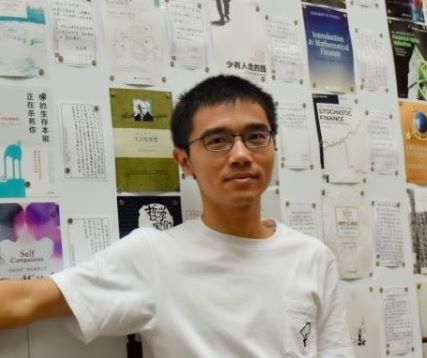
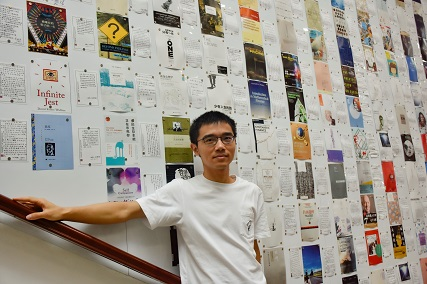
Edit

diff --git a/index.html b/index.html
@@ -6,8 +6,8 @@
 
 <head>
 
-	<title>Grad Student X's Webpage</title>
-	
+	<title>Ruijun Lin's Webpage</title>
+
 	<link rel="stylesheet" href="grad.css" type="text/css" media="all" />
 
 </head>
@@ -16,25 +16,25 @@
 <!--div id="wrapper" -->
 <br />
 <div id="masthead">
-	
+
 	<div id="bannerphoto">
-		<img src="GraecoLatin.jpg">
+		<img src="Myself.jpg">
 	</div>
 
 	<div id="bannertext">
-		<a href="." style="font-size:200%;color:#ffffff">Grad Student X</a><br />
-		dartmouth college mathematics<br />
-		6188 kemeny hall<br /><br />
-		X(at)math(dot)dartmouth(dot)edu
+		<a href="." style="font-size:200%;color:#ffffff">Ruijun Lin</a><br />
+		SUSTech, Mathematics<br />
+		1088 Xueyuan Rd, Shenzhen<br /><br />
+		11611302@mail.sustech.edu.cn
 	</div>
 
 </div>  <!--masthead-->
 
 <div id="left_container">
 	<h2>Welcome</h2>
-	<p>I'm a 1st year graduate student in mathematics at dartmouth college. Please
+	<p>I'm a 1st year graduate student in mathematics at Southern University of Science and Technology. Please
 	don't ask me to help you with your taxes.</p>
-	
+
 </div> <!--left container-->
 
 <div id="right_container">
